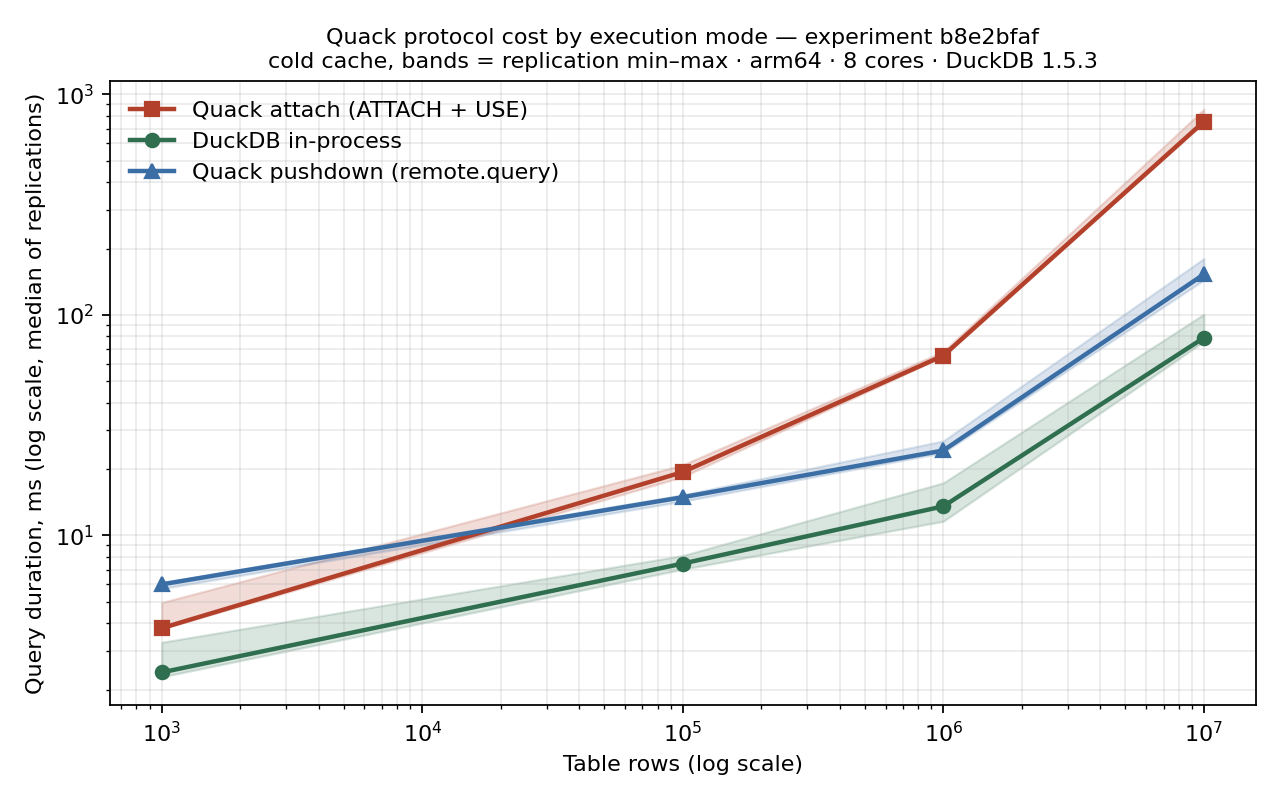
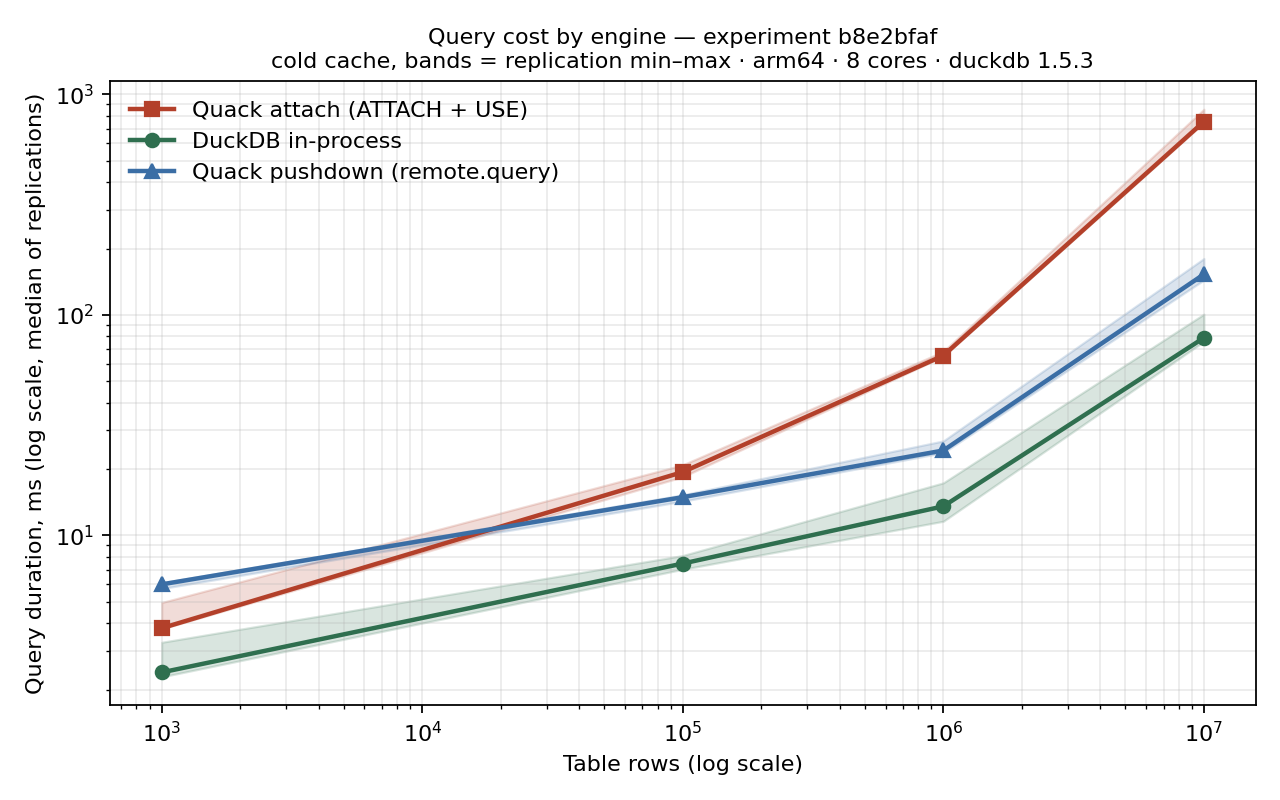
refactor: shared _plotlib for figure tools (DRY engine display + paths)
- _plotlib.py: ENGINE_DISPLAY (label/color/marker) and RESULTS_DIR (imported
  from constants, not redefined) defined ONCE; bench_string() lists only the
  engines actually used (no more hardcoded 'DuckDB' on a non-DuckDB figure).
- plot_execution_modes/scaling/threads: drop per-file RESULTS_DIR + style dicts,
  import from _plotlib. execution_modes title degeneralized ('Query cost by
  engine'). scaling: single-line title (dropped the parenthetical subtitle).
- Adding an engine (actian/typedb) is now one edit, not four.

Changed region(s): [[0.2188, 0.0312, 0.875, 0.0938]]

diff --git a/scripts/tools/plot_scaling.py b/scripts/tools/plot_scaling.py
@@ -1,9 +1,8 @@
 #!/usr/bin/env python3
 """
 Log-log scaling figure (median duration vs row count) for a row-scaled capsule,
-built ONLY from the capsule's sealed fragments — so the picture is regenerable
-and can't drift from the numbers. Error bars show the replication spread where
-there is more than one rep; single-shot points (the Act 0 scout) draw without.
+built ONLY from the capsule's sealed fragments — regenerable, can't drift.
+Error bars show the replication spread where more than one rep was retained.
 
 Usage:  python scripts/tools/plot_scaling.py <experiment_id> [<id> ...]
 Output: scratch/figures/scaling_<id>.png  (gitignored; for the article)
@@ -12,7 +11,6 @@ import glob
 import json
 import math
 import os
-import re
 import statistics
 import sys
 
@@ -20,8 +18,8 @@ import matplotlib
 matplotlib.use("Agg")
 import matplotlib.pyplot as plt
 
-REPO_ROOT = os.path.dirname(os.path.dirname(os.path.dirname(os.path.abspath(__file__))))
-RESULTS = os.path.join(REPO_ROOT, "sql_benchmarks", "experiments", "results")
+from _plotlib import REPO_ROOT, RESULTS_DIR, style
+
 OUT = os.path.join(REPO_ROOT, "scratch", "figures")
 
 
@@ -52,44 +50,31 @@ def alpha(points: dict) -> float:
 
 
 def plot(exp_id: str) -> None:
-    capsule = os.path.join(RESULTS, exp_id)
+    capsule = os.path.join(RESULTS_DIR, exp_id)
     s = series(capsule)
     if not s:
         print(f"{exp_id}: no row-scaled fragments — skipped")
         return
     os.makedirs(OUT, exist_ok=True)
-    raw_kept = max((len(v) for eng in s.values() for v in eng.values()), default=1)
-    # The capsule may have run more reps than it RETAINED (pre-migration capsules
-    # stored only the aggregate). Read the declared replication so the label is honest.
-    cfg = os.path.join(capsule, "experiment_config.yaml")
-    declared = raw_kept
-    if os.path.exists(cfg):
-        m = re.search(r"replication:\s*(\d+)", open(cfg).read())
-        if m:
-            declared = int(m.group(1))
     plt.figure(figsize=(7, 5))
     for eng in sorted(s):
         pts = s[eng]
         ns = sorted(pts)
         med = [statistics.median(pts[n]) * 1000 for n in ns]
         a = alpha(pts)
+        label, color, marker = style(eng)
         lo = [(statistics.median(pts[n]) - min(pts[n])) * 1000 for n in ns]
         hi = [(max(pts[n]) - statistics.median(pts[n])) * 1000 for n in ns]
         if any(l > 0 or h > 0 for l, h in zip(lo, hi)):
-            plt.errorbar(ns, med, yerr=[lo, hi], marker="o", capsize=3, label=f"{eng}  (α≈{a:.2f})")
+            plt.errorbar(ns, med, yerr=[lo, hi], marker=marker, color=color,
+                         capsize=3, label=f"{label}  (α≈{a:.2f})")
         else:
-            plt.plot(ns, med, marker="o", label=f"{eng}  (α≈{a:.2f})")
+            plt.plot(ns, med, marker=marker, color=color, label=f"{label}  (α≈{a:.2f})")
     plt.xscale("log")
     plt.yscale("log")
     plt.xlabel("Rows (log scale)")
     plt.ylabel("Median duration, ms (log scale)")
-    if raw_kept > 1:
-        reps = f"median of {raw_kept} cold reps"
-    elif declared > 1:
-        reps = f"{declared} cold reps, aggregate retained (no per-rep raw)"
-    else:
-        reps = "single-shot (n=1)"
-    plt.title(f"Scaling: duration vs rows — {exp_id}\n({reps}; power laws plot as straight lines)")
+    plt.title(f"Scaling: duration vs rows — {exp_id}")
     plt.legend()
     plt.grid(True, which="both", ls=":", alpha=0.4)
     out = os.path.join(OUT, f"scaling_{exp_id}.png")

diff --git a/scripts/tools/_plotlib.py b/scripts/tools/_plotlib.py
@@ -1,0 +1,43 @@
+"""Shared display metadata + paths for the figure tools (scripts/tools/plot_*.py).
+
+Design-once: an engine's label/color/marker, and the results path, live HERE.
+Every plot_*.py imports from this module, so adding an engine or restyling is a
+single edit — not a copy-paste across four scripts.
+"""
+import os
+import sys
+
+REPO_ROOT = os.path.dirname(os.path.dirname(os.path.dirname(os.path.abspath(__file__))))
+if REPO_ROOT not in sys.path:
+    sys.path.insert(0, REPO_ROOT)
+
+# Single source of truth for the results path — defined in the package, not redefined here.
+from sql_benchmarks.constants import RESULTS_DIR  # noqa: E402
+
+# engine -> (display label, hex color, marker). The ONE place to add/restyle an engine.
+# Keys track sql_benchmarks.constants.KNOWN_ENGINES.
+ENGINE_DISPLAY = {
+    "duckdb":         ("DuckDB in-process",             "#2f6f4f", "o"),
+    "quack":          ("Quack attach (ATTACH + USE)",   "#b3402a", "s"),
+    "quack_pushdown": ("Quack pushdown (remote.query)", "#3b6ea5", "^"),
+    "postgres":       ("PostgreSQL",                    "#7a5ea8", "D"),
+    "actian":         ("Actian Vector",                 "#c98a1b", "v"),
+    "typedb":         ("TypeDB",                         "#4c4c4c", "P"),
+}
+
+
+def style(engine: str):
+    """(label, color, marker) for an engine; falls back to the raw name + default marker."""
+    return ENGINE_DISPLAY.get(engine, (engine, None, "o"))
+
+
+def bench_string(env: dict, engines=()) -> str:
+    """One-line bench descriptor from a capsule's metadata environment.
+
+    Lists versions only for the engines the experiment actually used — never
+    hardcodes a single engine (so a Postgres-only figure won't claim 'DuckDB').
+    """
+    parts = [env.get("machine", ""), f"{env.get('cpu_count_logical', '?')} cores"]
+    versions = [f"{e} {env[e]}" for e in engines if env.get(e)]
+    tail = ", ".join(versions) if versions else (f"Python {env['python']}" if env.get("python") else "")
+    return " · ".join(p for p in (*parts, tail) if p)

diff --git a/scripts/tools/plot_execution_modes.py b/scripts/tools/plot_execution_modes.py
@@ -16,14 +16,7 @@ import sys
 
 import matplotlib.pyplot as plt
 
-RESULTS_DIR = os.path.join("sql_benchmarks", "experiments", "results")
-
-ENGINE_STYLE = {
-    "duckdb":         ("DuckDB in-process", "#2f6f4f", "o"),
-    "quack":          ("Quack attach (ATTACH + USE)", "#b3402a", "s"),
-    "quack_pushdown": ("Quack pushdown (remote.query)", "#3b6ea5", "^"),
-    "postgres":       ("PostgreSQL (Docker)", "#7a5ea8", "D"),
-}
+from _plotlib import RESULTS_DIR, style, bench_string
 
 
 def load_fragments(exp_id):
@@ -61,7 +54,7 @@ def main():
 
     fig, ax = plt.subplots(figsize=(8, 5))
     for engine, points in series.items():
-        label, color, marker = ENGINE_STYLE.get(engine, (engine, None, "o"))
+        label, color, marker = style(engine)
         xs = [rows for rows, _ in points]
         med = [sorted(raw)[len(raw) // 2] for _, raw in points]
         lo = [min(raw) for _, raw in points]
@@ -73,8 +66,8 @@ def main():
     ax.set_yscale("log")
     ax.set_xlabel("Table rows (log scale)")
     ax.set_ylabel("Query duration, ms (log scale, median of replications)")
-    bench = f"{env.get('machine', '')} · {env.get('cpu_count_logical', '?')} cores · DuckDB {env.get('duckdb', '?')}"
-    ax.set_title(f"Quack protocol cost by execution mode — experiment {exp_id}\n"
+    bench = bench_string(env, engines=series.keys())
+    ax.set_title(f"Query cost by engine — experiment {exp_id}\n"
                  f"cold cache, bands = replication min–max · {bench}", fontsize=10)
     ax.legend(frameon=False)
     ax.grid(True, which="both", alpha=0.25)

diff --git a/scripts/tools/plot_threads.py b/scripts/tools/plot_threads.py
@@ -21,14 +21,14 @@ import matplotlib
 matplotlib.use("Agg")
 import matplotlib.pyplot as plt
 
-REPO_ROOT = os.path.dirname(os.path.dirname(os.path.dirname(os.path.abspath(__file__))))
-RESULTS = os.path.join(REPO_ROOT, "sql_benchmarks", "experiments", "results")
+from _plotlib import REPO_ROOT, RESULTS_DIR, style
+
 OUT = os.path.join(REPO_ROOT, "scratch", "figures")
 
 
 def load(exp_id):
     s = {}
-    for p in glob.glob(os.path.join(RESULTS, exp_id, "fragments", "*.json")):
+    for p in glob.glob(os.path.join(RESULTS_DIR, exp_id, "fragments", "*.json")):
         d = json.load(open(p))
         par, m = d.get("parameters", {}), d.get("metrics", {})
         raw = m.get("durations_raw") or (
@@ -67,7 +67,7 @@ def main(exp_id="25b0e134"):
         durs = [statistics.median(dd[t]) * 1000 for t in threads]
         push = statistics.median([v for vals in pd.values() for v in vals]) * 1000
         label_n = f"{int(rows):,} rows"
-        plt.plot(threads, durs, marker="o", color=c, label=f"in-process DuckDB — {label_n}")
+        plt.plot(threads, durs, marker="o", color=c, label=f"{style('duckdb')[0]} — {label_n}")
         plt.axhline(push, ls="--", color=c, alpha=0.8)
         eff = effective_threads(threads, durs, push)
         if eff:
